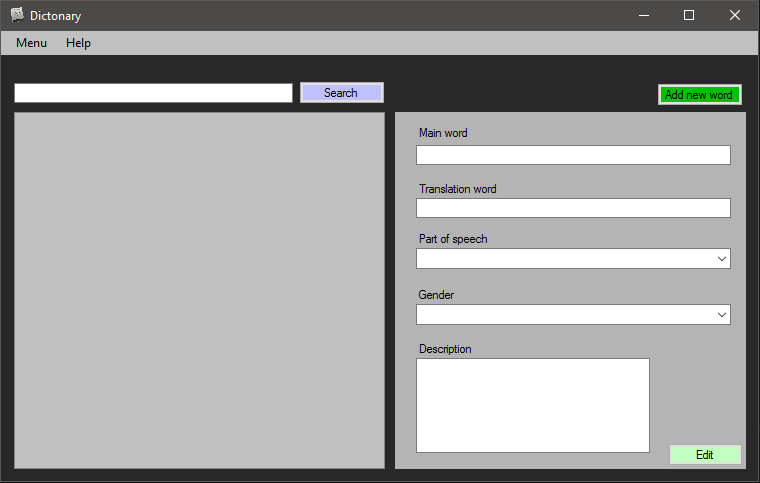
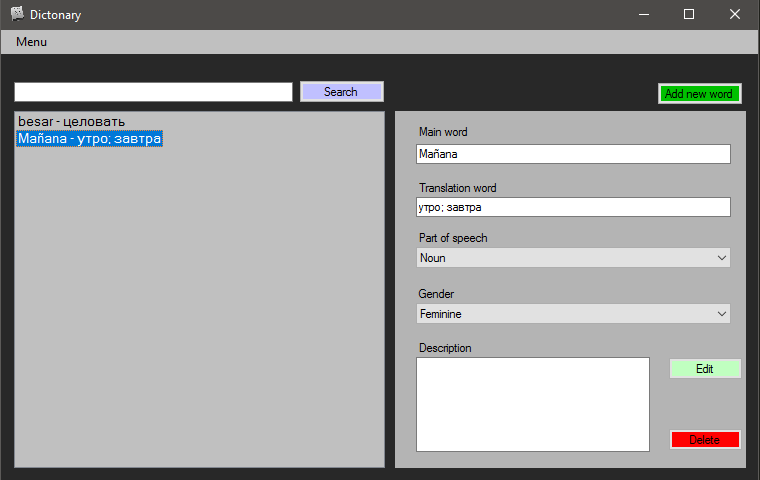
Edited README.md

diff --git a/README.md b/README.md
@@ -14,4 +14,46 @@ _DictonaryXML - It's a simple dictionary supporting Spanish, English, Russian._
 
 _This project was created to study XML. I decided to arrange a challenge for myself and did not use the database, but instead, the storage of words will be in format xml_
 
+---
+
+## How to start:
+
+#### 1 Run the application
+#### 2 Close the application
+#### 3 Go to DictonaryXML.UI / bin / debug /
+#### 4 In the Words.xml file, paste this text:
+
+``` XML
+<?xml version="1.0"?>
+<Words>
+  <WordsList>
+    <Word>
+      <MainWord>MainWord</MainWord>
+      <TranslationWord>TranslationWord</TranslationWord>
+      <PartOfSpeech>0</PartOfSpeech>
+      <Gender>0</Gender>
+      <Description>Description</Description>
+    </Word>
+  </WordsList>
+</Words>
+```
+### ! Important note do not leave the dictionary empty, if you left it empty repeat this scheme again !
+
+---
+
+## Acknowledgments:
+
+_I would like to say a special thank you to Ulyanov Ivan, he helped me make functionality that I would not have done._
+https://github.com/Ulyanov-programmer
+
+---
+
+## Functional:
+
+- Add
+- Edit
+- Delete
+- Search
+![SearchWords](imgForReadme/SearchWords.png)
+
 ___
